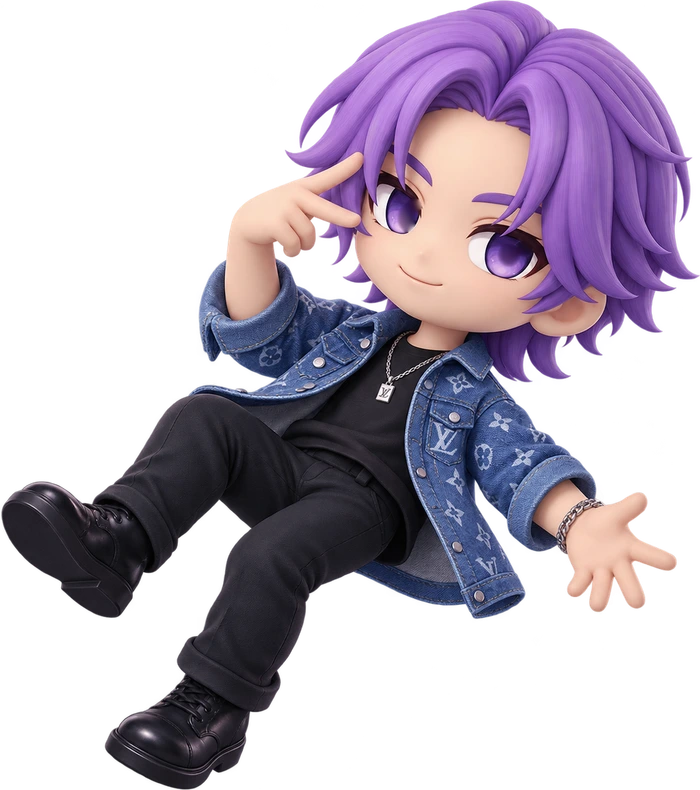
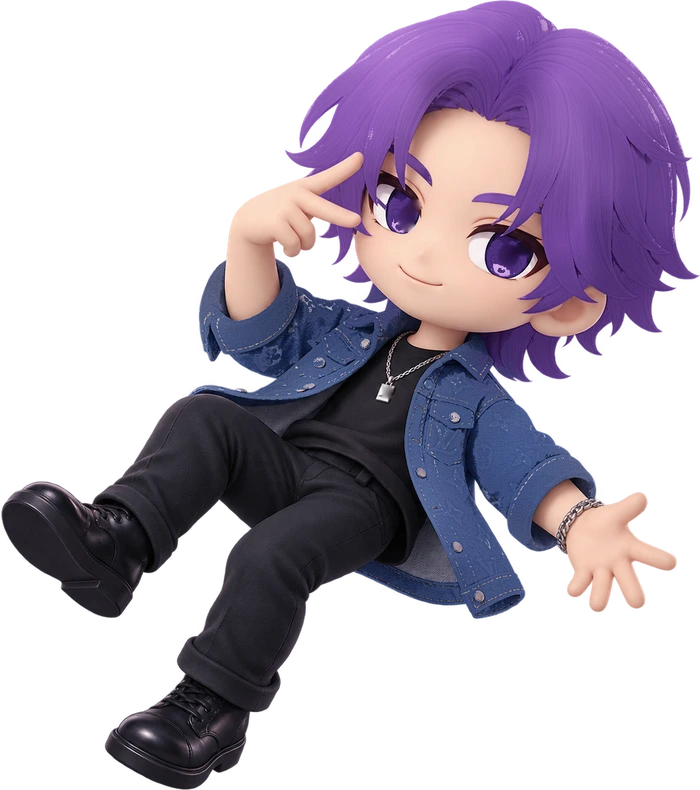
feat: swap the hero pair, give their exit weight, and clear the jacket print
Three things the pair needed.

Positions are swapped: the rigged character now stands on the left and the
denim one on the right.

The exit had been a straight map from scroll to position, which welded the two
to the wheel and moved them as one mechanism. Scroll progress now runs through
a spring first, so they lag a fast scroll, carry on for a moment after it
stops, and settle rather than halting dead. On top of that each character gets
its own four-stop curve, its own vertical drift and its own tilt, so they leave
at different moments and at different angles.

The idle float was two keyframes, which reads as a metronome however slow it
runs. It is now seven stops at uneven times with the horizontal, vertical and
rotational components peaking at different ones, and the two characters are on
durations that share no factor - so neither figure repeats a visible pose nor
falls into step with the other.

The denim character's jacket carried an all-over third-party monogram and a
marked pendant. Both are removed in the asset (scratchpad/debrand.mjs): the
print is separated from the weave by frequency band and flattened onto a
harmonically-reconstructed base, with the weave detail clamped so motif edges
do not survive as embossing. The pendant face is refilled outright.

Verified across the four degradation states at 1440/390/320: animations and
gaze both stay at zero under reduced-motion, in the TikTok webview, and under
[…]

Changed region(s): [[0.27, 0.0, 0.99, 0.5165], [0.54, 0.4253, 0.84, 0.7899], [0.78, 0.4253, 0.81, 0.4861]]

diff --git a/src/components/HeroSection.tsx b/src/components/HeroSection.tsx
@@ -1,5 +1,5 @@
 import { useRef } from 'react'
-import { motion, useScroll, useTransform, type Variants } from 'framer-motion'
+import { motion, useScroll, useSpring, useTransform, type Variants } from 'framer-motion'
 import { ArrowUpRight } from '@phosphor-icons/react'
 import Chibi from './Chibi'
 import DecoField from './Deco'
@@ -9,8 +9,15 @@ import { useMotionProfile } from '../hooks/useMotionProfile'
 const NAME_TOP = 'ゆきの'
 const NAME_BOTTOM = 'じょー'
 
-/** How far each character travels before it is clear of the viewport. */
-const EXIT = 138
+/**
+ * Weight behind the exit.
+ *
+ * Mapping scroll straight onto position makes the pair feel welded to the
+ * wheel. Running the progress through a spring first gives them mass: they lag
+ * a fast scroll, keep going for a moment after it stops, and settle back rather
+ * than halting dead.
+ */
+const INERTIA = { stiffness: 58, damping: 16, mass: 1.15 } as const
 
 const fadeUp: Variants = {
   hidden: { opacity: 0, y: 22 },
@@ -34,6 +41,11 @@ const HeroSection = () => {
    * moment the section's bottom edge reaches the top of the viewport - so they
    * are fully clear by the time the next section owns the screen.
    *
+   * Nothing here is linear or symmetric, on purpose. The spring supplies the
+   * weight; the four-stop curves make each character hesitate before it goes;
+   * and the two are given different stops, different drift and different tilt
+   * so they read as two people leaving rather than one mechanism opening.
+   *
    * This lives on a wrapper OUTSIDE `.chibi-parallax`: that element already
    * owns a transform for pointer parallax, and the two would overwrite each
    * other on the same node.
@@ -42,11 +54,16 @@ const HeroSection = () => {
     target: sectionRef,
     offset: ['start start', 'end start'],
   })
-  const partX = useTransform(scrollYProgress, (v) => (ambient ? v : 0))
-  const leftX = useTransform(partX, [0, 1], ['0%', `-${EXIT}%`])
-  const rightX = useTransform(partX, [0, 1], ['0%', `${EXIT}%`])
-  const leftTilt = useTransform(partX, [0, 1], [0, -9])
-  const rightTilt = useTransform(partX, [0, 1], [0, 9])
+  const raw = useTransform(scrollYProgress, (v) => (ambient ? v : 0))
+  const part = useSpring(raw, INERTIA)
+
+  const leftX = useTransform(part, [0, 0.3, 0.68, 1], ['0%', '-9%', '-54%', '-148%'])
+  const leftY = useTransform(part, [0, 0.5, 1], ['0%', '3.5%', '-8%'])
+  const leftTilt = useTransform(part, [0, 0.42, 1], [0, -3.5, -17])
+
+  const rightX = useTransform(part, [0, 0.24, 0.74, 1], ['0%', '4%', '46%', '134%'])
+  const rightY = useTransform(part, [0, 0.46, 1], ['0%', '-4.5%', '7%'])
+  const rightTilt = useTransform(part, [0, 0.55, 1], [0, 4.5, 13])
 
   return (
     <section
@@ -144,17 +161,17 @@ const HeroSection = () => {
           read as a symmetrical badge.
         */}
         <motion.div
-          style={{ x: leftX, rotate: leftTilt }}
-          className="order-2 -mb-8 w-[104%] justify-self-start lg:order-1 lg:mb-0 lg:-mr-[8%] lg:w-[124%] lg:translate-y-[-6%]"
+          style={{ x: leftX, y: leftY, rotate: leftTilt }}
+          className="order-2 -mb-12 w-[110%] justify-self-start lg:order-1 lg:mb-0 lg:-mr-[6%] lg:w-[128%] lg:translate-y-[4%]"
         >
-          <Chibi variant="b" depth={0.7} priority />
+          <Chibi variant="a" depth={0.9} priority />
         </motion.div>
 
         <motion.div
-          style={{ x: rightX, rotate: rightTilt }}
-          className="order-3 -mb-12 w-[110%] justify-self-end lg:order-3 lg:mb-0 lg:-ml-[6%] lg:w-[128%] lg:translate-y-[4%]"
+          style={{ x: rightX, y: rightY, rotate: rightTilt }}
+          className="order-3 -mb-8 w-[104%] justify-self-end lg:order-3 lg:mb-0 lg:-ml-[8%] lg:w-[124%] lg:translate-y-[-6%]"
         >
-          <Chibi variant="a" depth={0.9} priority />
+          <Chibi variant="b" depth={0.7} priority />
         </motion.div>
       </motion.div>
     </section>

diff --git a/src/index.css b/src/index.css
@@ -284,18 +284,46 @@
   animation-delay: var(--delay, 0s);
 }
 
+/*
+ * Idle drift.
+ *
+ * Deliberately irregular: seven stops at uneven times, with the horizontal,
+ * vertical and rotational components peaking at different ones. A two-keyframe
+ * float reads as a metronome no matter how slow it runs, whereas this never
+ * visibly returns to the same pose - and with the two characters on durations
+ * that share no factor, the pair never falls into step either.
+ *
+ * Offsets are percentages so the drift scales with the character rather than
+ * being twice as strong on a phone.
+ */
 @keyframes chibi-hover {
   0%,
   100% {
-    transform: translate3d(0, 0, 0) rotate(-1.2deg);
+    transform: translate3d(0, 0, 0) rotate(0deg);
   }
-  50% {
-    transform: translate3d(0, -18px, 0) rotate(1.2deg);
+  13% {
+    transform: translate3d(0.7%, -2.1%, 0) rotate(1.5deg);
+  }
+  29% {
+    transform: translate3d(-0.5%, -0.5%, 0) rotate(-0.6deg);
+  }
+  44% {
+    transform: translate3d(1.2%, -2.9%, 0) rotate(2deg);
+  }
+  61% {
+    transform: translate3d(-1%, -1.1%, 0) rotate(-1.4deg);
+  }
+  78% {
+    transform: translate3d(0.4%, -2.5%, 0) rotate(0.8deg);
+  }
+  91% {
+    transform: translate3d(-0.6%, -0.7%, 0) rotate(-1deg);
   }
 }
 
 .chibi-hover {
-  animation: chibi-hover 6.4s ease-in-out infinite;
+  animation: chibi-hover var(--dur, 9.5s) ease-in-out infinite;
+  animation-delay: var(--delay, 0s);
 }
 
 /* ---------------------------------------------------------------------------

diff --git a/src/data/chibi.ts b/src/data/chibi.ts
@@ -45,6 +45,12 @@ export type ChibiVariant = {
   parts: RigPart[]
   eyes: EyeRig[]
   /**
+   * Idle drift timing. The two characters are given durations with no common
+   * factor so they never fall into step - a pair breathing in sync is the
+   * thing that reads as mechanical.
+   */
+  hover: { dur: string; delay: string }
+  /**
    * Where the head sits in the character box, as [x, y] fractions. Gaze is
    * measured from here, so two characters on opposite sides of the screen
    * converge on the pointer instead of both looking the same way.
@@ -57,6 +63,7 @@ const A: ChibiVariant = {
   aspect: '1223/1286',
   label: 'ゆきのじょーのキャラクター',
   head: [0.6, 0.28],
+  hover: { dur: '11.3s', delay: '-2.4s' },
   parts: [
     { src: 'legBack', origin: '57.5% 67%', amp: 2, dur: '5.7s', delay: '-3s' },
     { src: 'legFront', origin: '42.8% 54.6%', amp: 2.6, dur: '5.1s', delay: '-1.8s' },
@@ -75,6 +82,7 @@ const B: ChibiVariant = {
   aspect: '1082/1221',
   label: 'ゆきのじょーのキャラクター（デニム）',
   head: [0.62, 0.28],
+  hover: { dur: '14.9s', delay: '-8.1s' },
   parts: [{ src: 'body' }],
   eyes: [
     { box: [55.268, 23.669, 4.713, 5.651], pupil: [29.412, 23.188, 78.431, 79.71], travel: [17.647, 8.696] },

diff --git a/src/components/Chibi.tsx b/src/components/Chibi.tsx
@@ -38,7 +38,10 @@ const Chibi = ({ variant = 'a', depth = 0.85, className = '', priority = false }
       role="img"
       aria-label={rig.label}
     >
-      <div className={ambient ? 'chibi-hover' : undefined}>
+      <div
+        className={ambient ? 'chibi-hover' : undefined}
+        style={{ '--dur': rig.hover.dur, '--delay': rig.hover.delay } as CSSProperties}
+      >
         <motion.div
           ref={ref}
           className="chibi"
